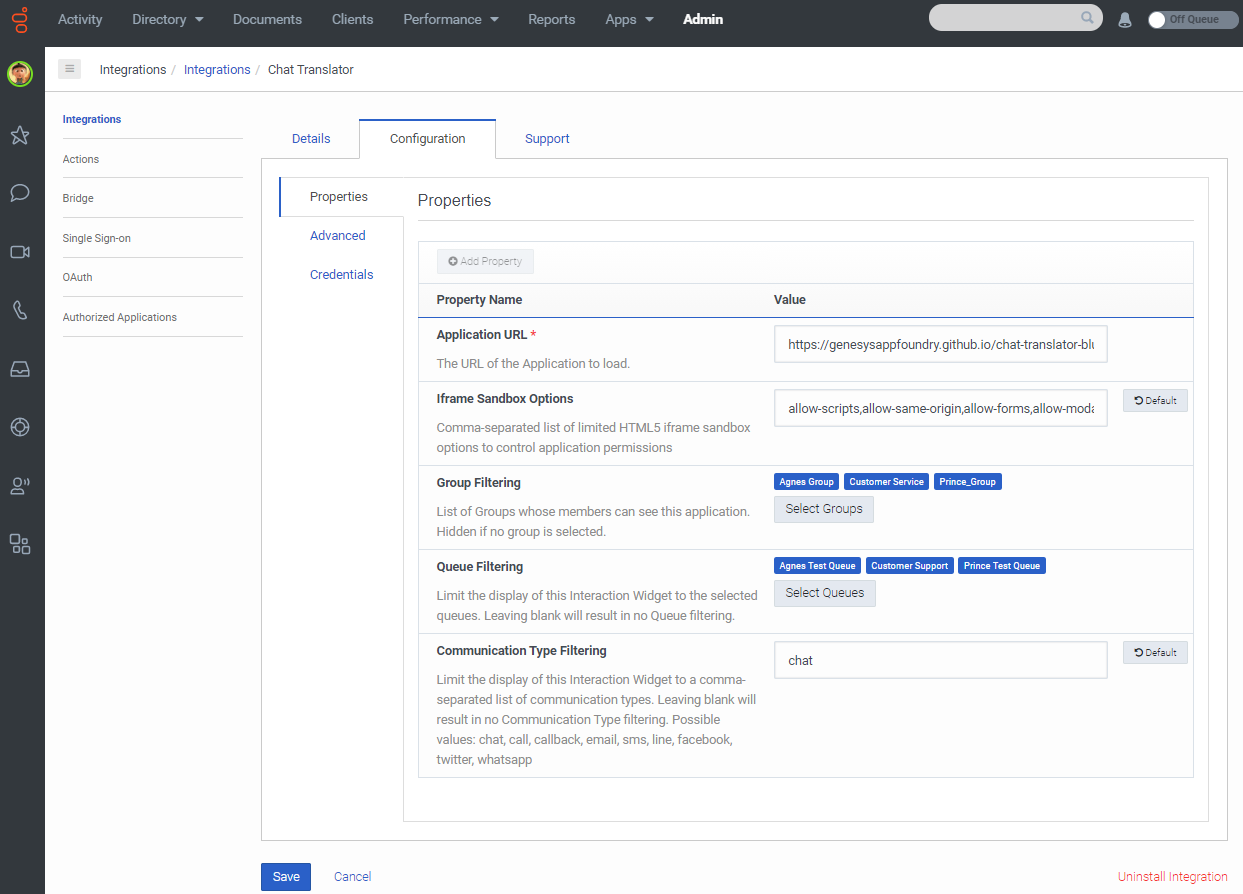
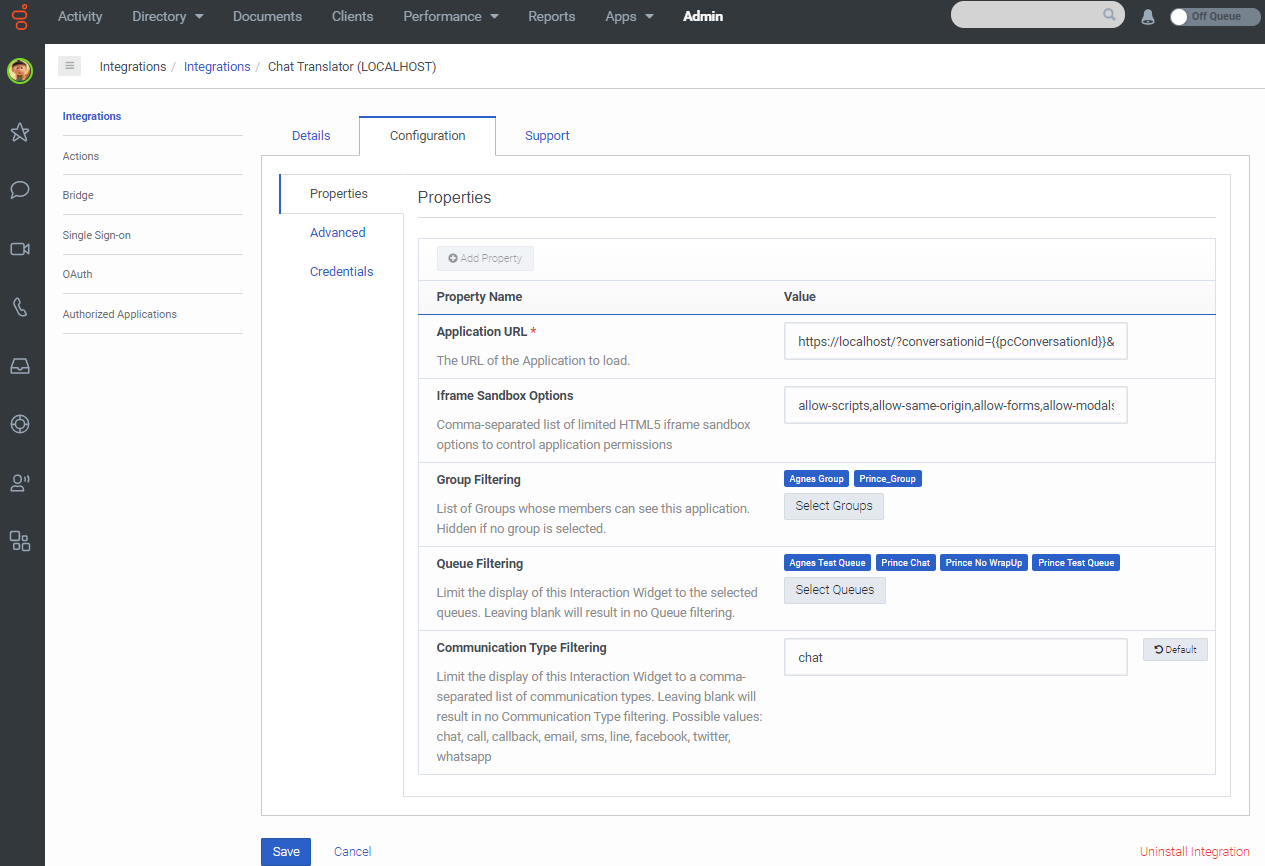
Remove Github page references

diff --git a/docs/scripts/main.js b/docs/scripts/main.js
@@ -325,14 +325,11 @@ const urlParams = new URLSearchParams(window.location.search);
 currentConversationId = urlParams.get('conversationid');
 genesysCloudLanguage = urlParams.get('language');
 
-const redirectUri = (new URL (window.location.href)).hostname == 'localhost' ?
-                config.testUri : config.prodUri;
-
 client.setPersistSettings(true, 'chat-translator');
 client.setEnvironment(config.genesysCloud.region);
 client.loginImplicitGrant(
     config.clientID,
-    redirectUri,
+    config.redirectUri,
     { state: JSON.stringify({
         conversationId: currentConversationId,
         language: genesysCloudLanguage

diff --git a/docs/scripts/config.js b/docs/scripts/config.js
@@ -1,9 +1,8 @@
 export default {
     // Token Implicit Grant Client ID
-    clientID: '',
+    clientID: process.env.CLIENT_ID,
 
-    testUri: 'https://localhost/',
-    prodUri:  'https://genesysappfoundry.github.io/chat-translator-blueprint/',
+    redirectUri: 'https://localhost/',
 
     genesysCloud: {
         // Genesys Cloud region

diff --git a/blueprint/index.md b/blueprint/index.md
@@ -78,11 +78,9 @@ The Chat Translator integration has the following stages:
    
 4. Click the **Configuration** tab. In the **Application URL** box, type the URL of the web application. Be sure to specify the full URL, including the https: at the beginning of the URL.
    
-   Use the GitHub URL to run the hosted repo or use the localhost URL to test on your local computer.
+   The pcConversationId URL parameter is used to determine the conversation interaction and pcLangTag is used to determine the agent's language in the Chat Translator solution.
 
-   <pre class="language-nohighlight"><code class="language-nohighlight">https://genesysappfoundry.github.io/chat-translator-blueprint/?conversationid=&#123;&#123;pcConversationId&#125&#125;&language=&#123;&#123;pcLangTag&#125&#125;&environment=&#123;&#123;pcEnvironment&#125&#125;</code></pre>
-
-   <pre class="language-nohighlight"><code class="language-nohighlight">https://localhost/?conversationid=&#123;&#123;pcConversationId&#125&#125;</code></pre>
+   <pre class="language-nohighlight"><code class="language-nohighlight">https://localhost/?conversationid=&#123;&#123;pcConversationId&#125&#125;&language=&#123;&#123;pcLangTag&#125&#125;</code></pre>
 
    **(Optional)** Select a group for filtering user acces to the widget.
 
